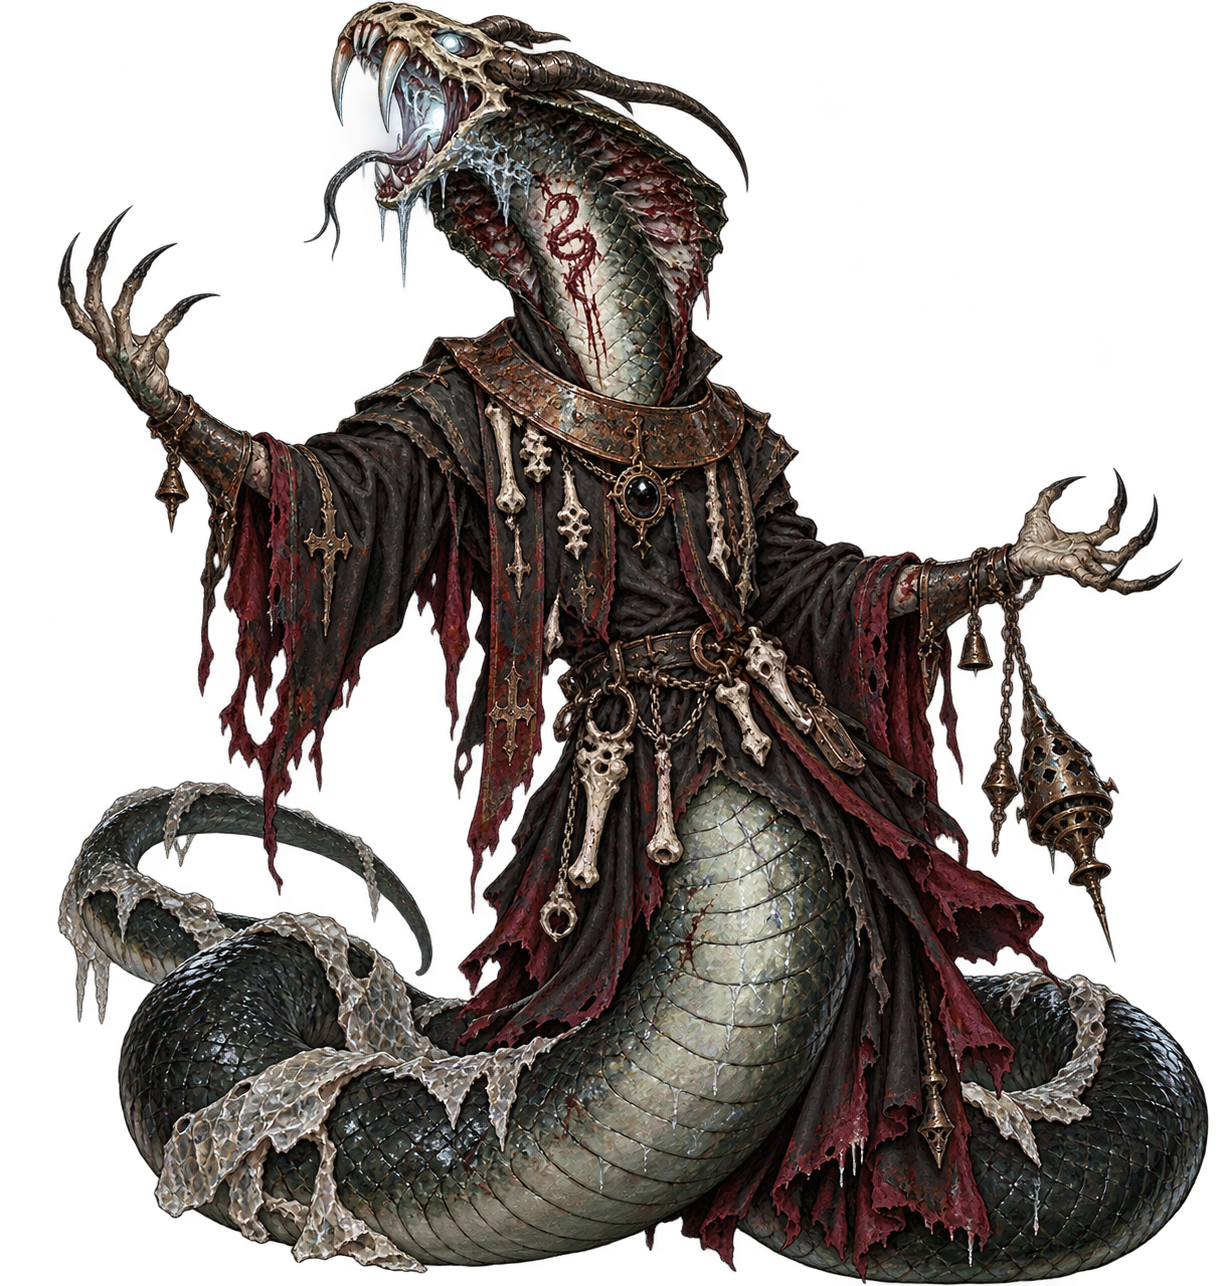
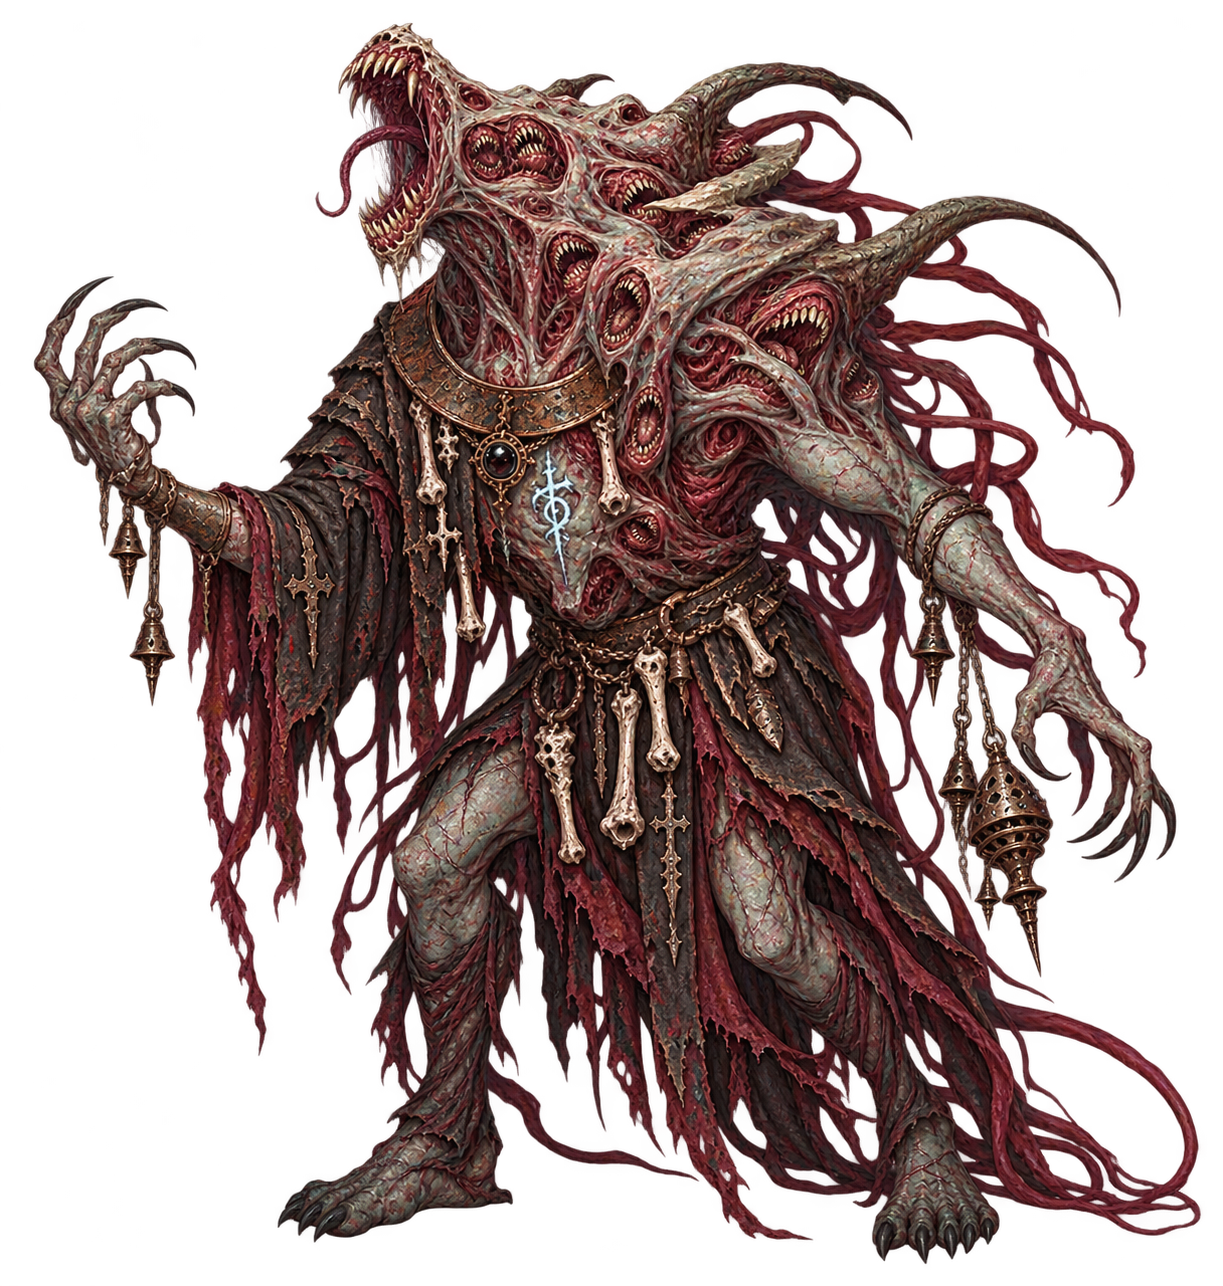
Replace Serpent concept with mouth-clustered Choir Aspect

diff --git a/docs/path_beast_reimagined/README.md b/docs/path_beast_reimagined/README.md
@@ -11,9 +11,9 @@ Click an image to view the full-size concept.
 | --- | --- | --- |
 | [![Supplicant](anguish_penitent.png)](anguish_penitent.png) | [![Half-Breed](anguish_vessel.png)](anguish_vessel.png) | [![Warbeast](harrowed_giant.png)](harrowed_giant.png) |
 
-| Priest: Wolf | Priest: Serpent | Priest: Goat |
+| Priest: Wolf | Priest: Choir | Priest: Goat |
 | --- | --- | --- |
-| [![Wolf Aspect](coterie_seamkeeper.png)](coterie_seamkeeper.png) | [![Serpent Aspect](coterie_cantor.png)](coterie_cantor.png) | [![Goat Aspect](coterie_matron.png)](coterie_matron.png) |
+| [![Wolf Aspect](coterie_seamkeeper.png)](coterie_seamkeeper.png) | [![Choir Aspect](coterie_cantor.png)](coterie_cantor.png) | [![Goat Aspect](coterie_matron.png)](coterie_matron.png) |
 
 ### The Howl Made Flesh
 
@@ -33,7 +33,7 @@ Click an image to view the full-size concept.
 - [Rune-Marked Half-Breed](anguish_vessel.png): a wolf-headed soldier stalled between human and beast.
 - [Shackled Warbeast](harrowed_giant.png): the first guardian, a huge chained boar/bear-like pack killer.
 - [Horned Priest — Wolf Aspect](coterie_seamkeeper.png): lean, fast and predatory.
-- [Horned Priest — Serpent Aspect](coterie_cantor.png): venom, cold light and a coiled hymn-singer.
+- [Horned Priest — Choir Aspect](coterie_cantor.png): a distorted humanoid chorus of clustered jaws, pale flesh and trailing sinews.
 - [Horned Priest — Goat Aspect](coterie_matron.png): the composed, ancient pack leader revealed last.
 - [The Howl Made Flesh](howling_head.png): a meteoric wolf idol becoming the primordial hunger it represents.
 
@@ -43,6 +43,10 @@ Click an image to view the full-size concept.
 - [Barricaded camp](beast_camp.png): a vulnerable refuge held against the hunting pack.
 
 The overall progression is **Moonlit Warrens → Revel of Runes → Altar of the Beast**.
+The second form was revised from Serpent to Choir Aspect using the supplied
+mouth-cluster and flesh-idol references. The original supplied diff remains
+recorded in source-prompts.json; the [current revision prompt](revised-prompts.json) is recorded separately.
+
 The three Priest forms share ecclesiastical clothing, iron and bone motifs so
 they read as one shapeshifter rather than three unrelated bosses.
 
